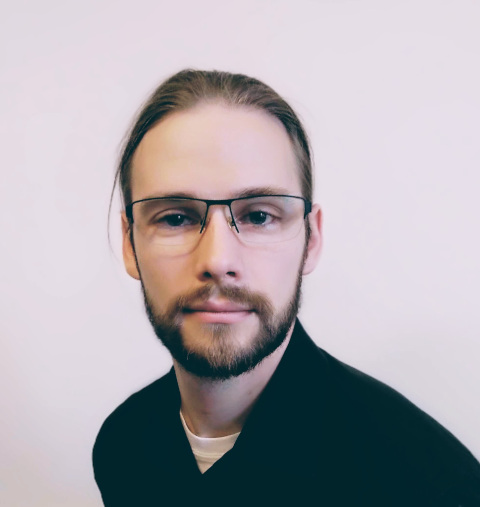
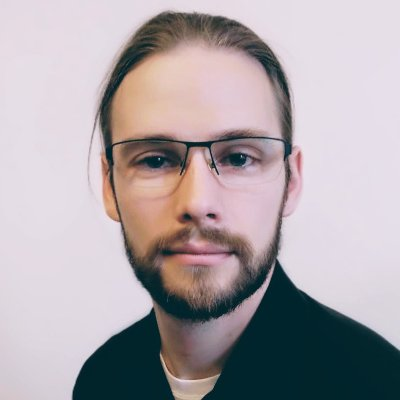
add John's photo, fix resolution of few other

diff --git a/_pages/people.md b/_pages/people.md
@@ -18,7 +18,7 @@ people:
       email: sabdull2@exseed.ed.ac.uk
       linkedin: shima-abdullateef-913375106
     - name: Dr John Stewart Fabila-Carrasco
-      image: /images/people/generic.png
+      image: /images/people/john.jpg
       position: Postdoc
       description: John is currently a Postdoctoral Researcher at the School of Informatics. His research interests lie in spectral graph theory, specifically focusing on the discrete magnetic Laplacian and graph signal processing applications.
       email: john.fabila@ed.ac.uk
